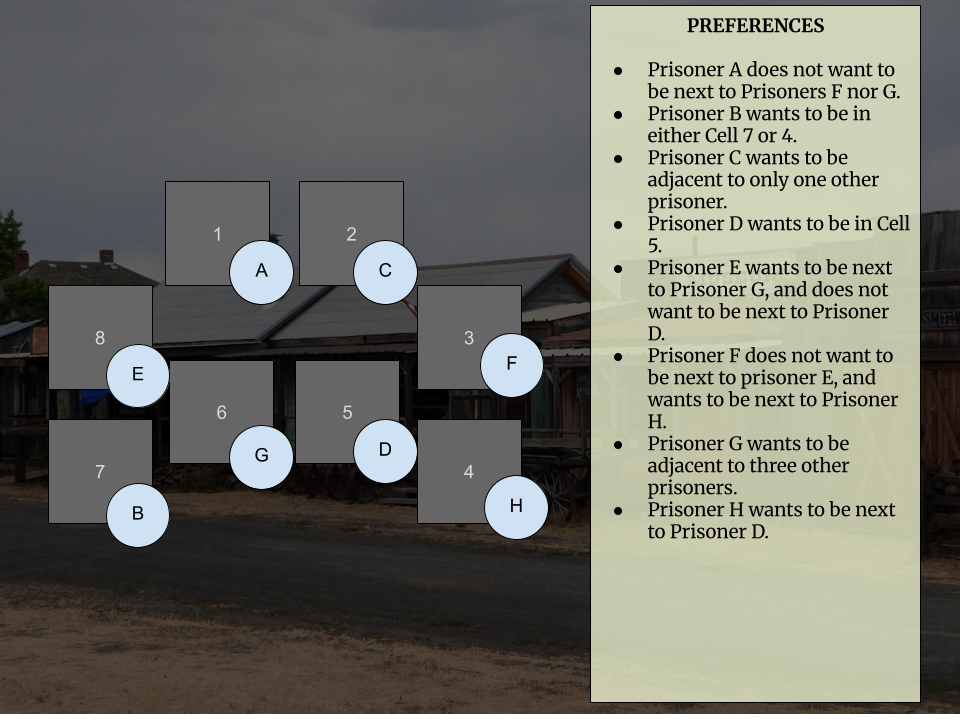
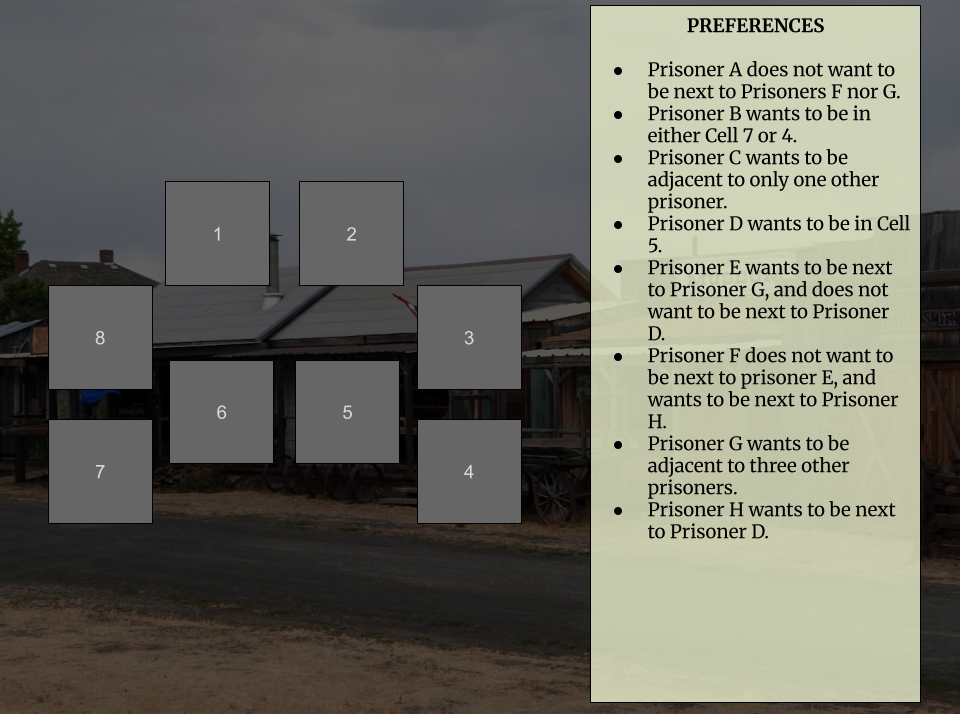
Fix the west puzzle image so it doesn't have the solution in it

diff --git a/game/game.js b/game/game.js
@@ -112,6 +112,7 @@ function gameLoop(timestamp) { // Game Loop
                 break;
             } else if (chart[note].lane != lane) { // Prevent keypress from affecting a different lane
                 continue;
+            // FIXME: Incorrect handling of judgements: only PERFECTs work properly and other judgements let notes fall and become MISSes
             } else if (rt <= 40 && rt >= -40) {
                 perfect += 1;
                 score += 3;
@@ -123,16 +124,19 @@ function gameLoop(timestamp) { // Game Loop
                 great += 1;
                 score += 2;
                 health += 0.5;
+                delete chart[note];
                 judgementText = rt.toFixed(0);
                 break
             } else if (rt <= 120 && rt >= -120) {
                 ok += 1
                 score += 1;
+                delete chart[note];
                 judgementText = rt.toFixed(0);
                 break
             } else if (rt <= 160 && rt >= -160) {
                 miss += 1;
                 health -= 5;
+                delete chart[note];
                 judgementText = rt.toFixed(0);
                 break
             }
